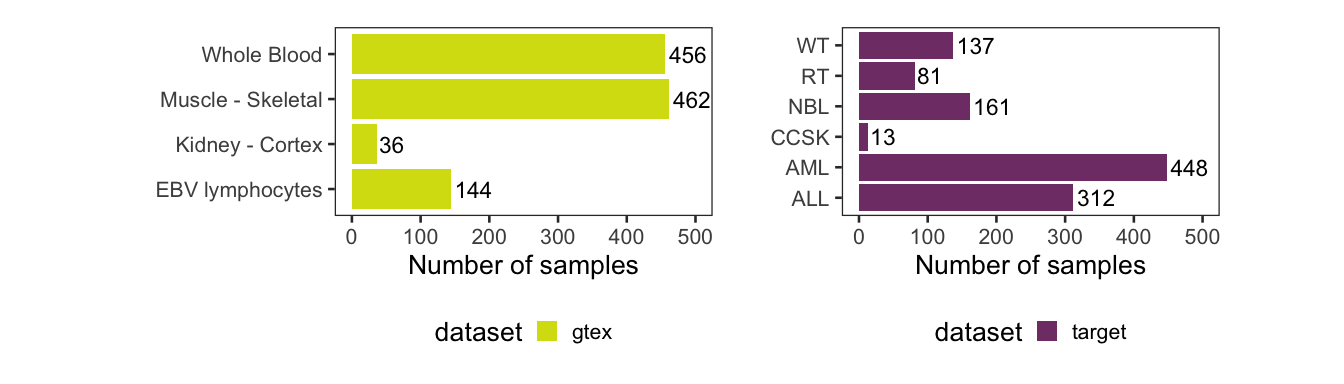
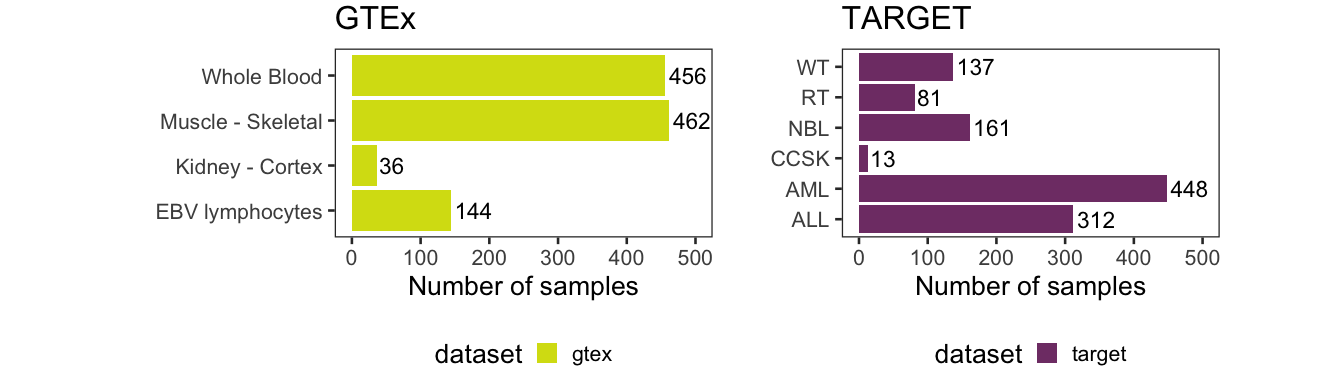
update markdown and plots

diff --git a/notebooks/compendium_summary/compendium_v1_summary.md b/notebooks/compendium_summary/compendium_v1_summary.md
@@ -1,6 +1,6 @@
 # Summary of samples on splice compendium v1
 Cindy Liang (celiang@ucsc.edu)
-2026-08-17
+2026-08-19
 
 ## Introduction
 
@@ -709,7 +709,8 @@ gtex_sample_dist_plot <- ggplot(
   ) +
   labs(
     x = "Number of samples",
-    y = ""
+    y = "",
+    title = "GTEx"
   ) +
   # manually add to ylim so that there is space for over-bar labels
   xlim(0, 500) +
@@ -739,7 +740,8 @@ target_sample_dist_plot <- ggplot(
   labs(
     x = "Number of samples",
     y = "",
-    ) +
+    title = "TARGET"
+   ) +
   # manually add to ylim so that there is space for over-bar labels
   xlim(0, 500) +
   plot_theme +
